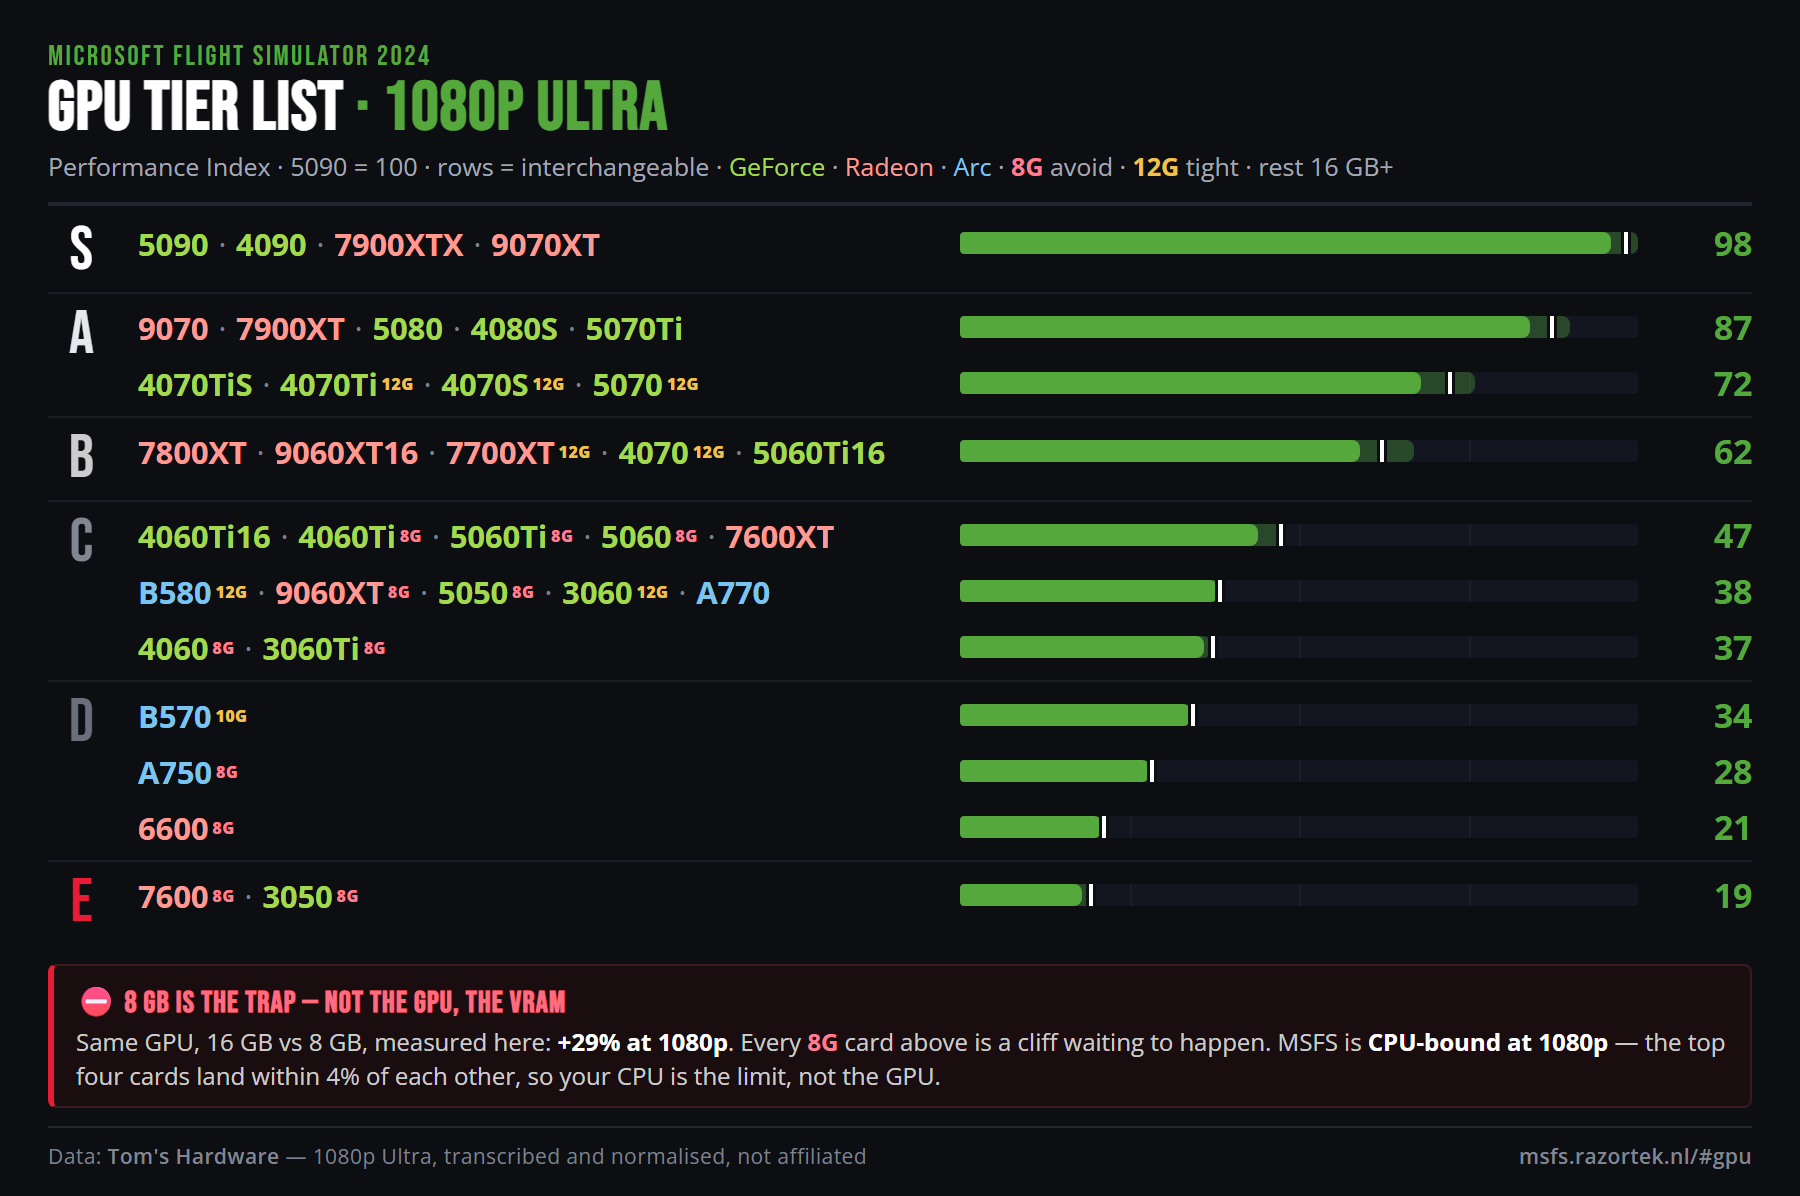
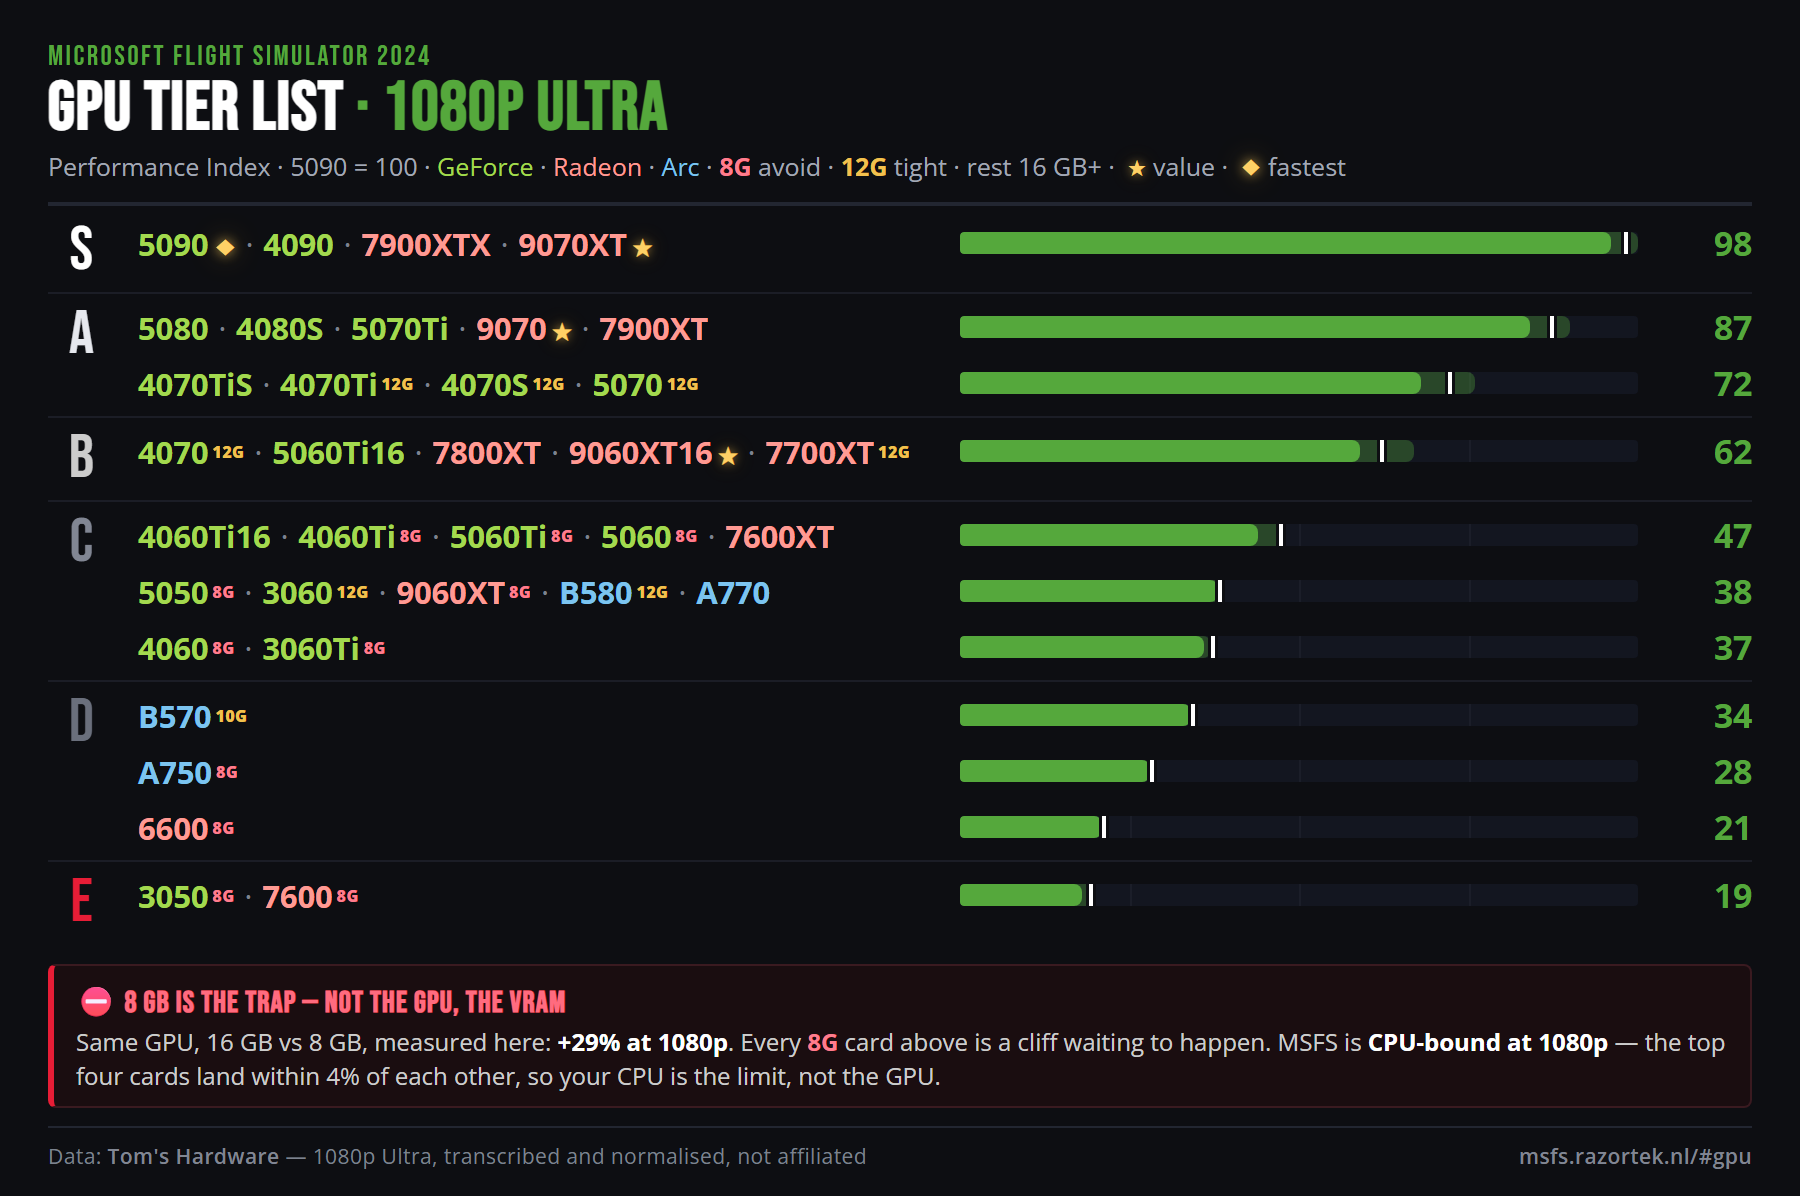
Add gold value/fastest marks to the GPU cards; sort rows by vendor
Gold ★ on the RX 9070 XT, RX 9070 and RX 9060 XT 16GB, gold ◆ on the RTX
5090, both with a warm glow. Glyphs rather than pills because a mark
belongs to one card and a pill mid-list ("RX 9070 [BEST VALUE] · RTX 4080
Super") reads badly; the glow is also what tells them apart from the
amber 12G tag, which sits at a similar hue.

A mark attaches to a card, never a row: clusters are mixed, so marking
the row would claim the 4090 and 7900 XTX are value picks too.

The ★ picks are editorial, not computed -- the dataset has no prices --
and both card variants say so rather than implying it fell out of the
numbers.

Cards within a row are now listed Nvidia > AMD > Intel, then by index.
Row order itself is unchanged and still purely by index.

Also reword the per-resolution caveat from "not comparable to the other
two cards" to "not comparable to other resolutions", which is the actual
claim -- it is about the normalisation, not about these three files.

diff --git a/tierlist_card_gpu.html b/tierlist_card_gpu.html
@@ -82,6 +82,13 @@ h1 em{font-style:normal;color:var(--acc)}
 sup.vr{font-size:8.5px;font-weight:800;letter-spacing:.03em;vertical-align:3px;margin-left:2px}
 sup.v8{color:#ff7d8d}
 sup.v12{color:#f2c14e}
+/* Gold accolades. Deliberately glyphs, not pills: a mark belongs to one card, and a
+   pill mid-list ("RX 9070 [BEST VALUE] · RTX 4080 Super") reads badly. The glow is
+   what separates them from the amber 12G tag, which sits at a similar hue. */
+.mk{font-size:11.5px;margin-left:3px;color:#ffd166;
+  text-shadow:0 0 5px rgba(255,200,80,.55), 0 0 11px rgba(255,190,60,.3)}
+.mk.ult{font-size:12.5px;
+  text-shadow:0 0 6px rgba(255,205,90,.75), 0 0 15px rgba(255,190,60,.45)}
 .note{font-size:12.5px;color:var(--note);letter-spacing:-.002em;margin-left:7px}
 .bar{grid-column:1;position:relative;height:13px;background:var(--track);border-radius:2px;
   overflow:hidden}
@@ -160,10 +167,11 @@ html.compact .foot{margin-top:9px;padding-top:7px;font-size:10.5px}
   <h1>GPU Tier List <em>· <span id="hRes"></span> Ultra</em></h1>
   <!-- .sub must stay ONE line: ~852px of content width at 12.5px fits ~128 chars.
        Keep it under that or it silently steals a whole line of card height. -->
-  <div class="sub">Performance Index · 5090 = 100 · rows = interchangeable ·
-    <span class="b-nv">GeForce</span> · <span class="b-amd">Radeon</span> ·
-    <span class="b-intel">Arc</span> · <b style="color:#ff7d8d">8G</b> avoid ·
-    <b style="color:#f2c14e">12G</b> tight · rest 16 GB+</div>
+  <div class="sub">Performance Index · 5090 = 100 · <span class="b-nv">GeForce</span> ·
+    <span class="b-amd">Radeon</span> · <span class="b-intel">Arc</span> ·
+    <b style="color:#ff7d8d">8G</b> avoid · <b style="color:#f2c14e">12G</b> tight ·
+    rest 16 GB+ · <span class="mk">★</span> value ·
+    <span class="mk ult">◆</span> fastest</div>
   <div class="lede">
     Tom's Hardware GPU test passes at <b><span class="hRes2"></span> Ultra</b>, rescaled
     onto one 0–100 scale with the 5090 at 100. Cards within a few points of each other are
@@ -172,8 +180,10 @@ html.compact .foot{margin-top:9px;padding-top:7px;font-size:10.5px}
     Names are tinted by brand — <span class="b-nv">GeForce</span>,
     <span class="b-amd">Radeon</span>, <span class="b-intel">Arc</span> — and tagged by
     memory: <sup class="vr v8">8G</sup> and <sup class="vr v12">12G</sup>, untagged means
-    16 GB or more. The index is normalised per resolution, so these numbers are
-    <b>not comparable to the other two cards</b>.
+    16 GB or more. <span class="mk ult">◆</span> is the outright fastest card and
+    <span class="mk">★</span> marks the <b>best value for money</b> — an editorial pick,
+    since the dataset holds no prices. The index is normalised per resolution, so these
+    numbers are <b>not comparable to other resolutions</b>.
   </div>
   <div class="hrule"></div>
 
@@ -227,31 +237,31 @@ html.compact .foot{margin-top:9px;padding-top:7px;font-size:10.5px}
 /* Per-resolution index, clusters generated from public/gpu_data.json (gap 5, cap 5).
    mean = cluster average (sets the tier); lo/hi = slowest and fastest card in it.
    Third card arg is VRAM in GB, present only when <= 12 — that is what earns a tag. */
-const nv=(n,s,g)=>({n,s,v:"nv",g}), amd=(n,s,g)=>({n,s,v:"amd",g}),
-      intel=(n,s,g)=>({n,s,v:"intel",g});
+const nv=(n,s,g,m)=>({n,s,v:"nv",g,m}), amd=(n,s,g,m)=>({n,s,v:"amd",g,m}),
+      intel=(n,s,g,m)=>({n,s,v:"intel",g,m});
 // GENERATED — do not hand-edit between the markers.
 // Regenerate with: python make_tierlist_clusters.py
 const GPU_DATA = {
 // <<< CLUSTERS
 "1080p": [
   { t:"S", rows:[
-    { cards:[nv("RTX 5090","5090"), nv("RTX 4090","4090"), amd("RX 7900 XTX","7900XTX"), amd("RX 9070 XT","9070XT")],
+    { cards:[nv("RTX 5090","5090",0,"ult"), nv("RTX 4090","4090"), amd("RX 7900 XTX","7900XTX"), amd("RX 9070 XT","9070XT",0,"value")],
       lo:96, hi:100, mean:98 },
   ]},
   { t:"A", rows:[
-    { cards:[amd("RX 9070","9070"), amd("RX 7900 XT","7900XT"), nv("RTX 5080","5080"), nv("RTX 4080 Super","4080S"), nv("RTX 5070 Ti","5070Ti")],
+    { cards:[nv("RTX 5080","5080"), nv("RTX 4080 Super","4080S"), nv("RTX 5070 Ti","5070Ti"), amd("RX 9070","9070",0,"value"), amd("RX 7900 XT","7900XT")],
       lo:84, hi:90, mean:87 },
     { cards:[nv("RTX 4070 Ti Super","4070TiS"), nv("RTX 4070 Ti","4070Ti",12), nv("RTX 4070 Super","4070S",12), nv("RTX 5070","5070",12)],
       lo:68, hi:76, mean:72 },
   ]},
   { t:"B", rows:[
-    { cards:[amd("RX 7800 XT","7800XT"), amd("RX 9060 XT 16GB","9060XT16"), amd("RX 7700 XT","7700XT",12), nv("RTX 4070","4070",12), nv("RTX 5060 Ti 16GB","5060Ti16")],
+    { cards:[nv("RTX 4070","4070",12), nv("RTX 5060 Ti 16GB","5060Ti16"), amd("RX 7800 XT","7800XT"), amd("RX 9060 XT 16GB","9060XT16",0,"value"), amd("RX 7700 XT","7700XT",12)],
       lo:59, hi:67, mean:62 },
   ]},
   { t:"C", rows:[
     { cards:[nv("RTX 4060 Ti 16GB","4060Ti16"), nv("RTX 4060 Ti","4060Ti",8), nv("RTX 5060 Ti","5060Ti",8), nv("RTX 5060","5060",8), amd("RX 7600 XT","7600XT")],
       lo:44, hi:48, mean:47 },
-    { cards:[intel("Arc B580","B580",12), amd("RX 9060 XT","9060XT",8), nv("RTX 5050","5050",8), nv("RTX 3060","3060",12), intel("Arc A770 16GB","A770")],
+    { cards:[nv("RTX 5050","5050",8), nv("RTX 3060","3060",12), amd("RX 9060 XT","9060XT",8), intel("Arc B580","B580",12), intel("Arc A770 16GB","A770")],
       lo:38, hi:39, mean:38 },
     { cards:[nv("RTX 4060","4060",8), nv("RTX 3060 Ti","3060Ti",8)],
       lo:36, hi:37, mean:37 },
@@ -265,27 +275,27 @@ const GPU_DATA = {
       lo:21, hi:21, mean:21 },
   ]},
   { t:"E", rows:[
-    { cards:[amd("RX 7600","7600",8), nv("RTX 3050","3050",8)],
+    { cards:[nv("RTX 3050","3050",8), amd("RX 7600","7600",8)],
       lo:18, hi:20, mean:19 },
   ]},
 ],
 "1440p": [
   { t:"S", rows:[
-    { cards:[nv("RTX 5090","5090")],
+    { cards:[nv("RTX 5090","5090",0,"ult")],
       lo:100, hi:100, mean:100 },
   ]},
   { t:"A", rows:[
     { cards:[nv("RTX 4090","4090")],
       lo:86, hi:86, mean:86 },
-    { cards:[amd("RX 9070 XT","9070XT"), amd("RX 7900 XTX","7900XTX")],
+    { cards:[amd("RX 9070 XT","9070XT",0,"value"), amd("RX 7900 XTX","7900XTX")],
       lo:81, hi:81, mean:81 },
-    { cards:[nv("RTX 5080","5080"), amd("RX 7900 XT","7900XT"), amd("RX 9070","9070"), nv("RTX 4080 Super","4080S"), nv("RTX 5070 Ti","5070Ti")],
+    { cards:[nv("RTX 5080","5080"), nv("RTX 4080 Super","4080S"), nv("RTX 5070 Ti","5070Ti"), amd("RX 7900 XT","7900XT"), amd("RX 9070","9070",0,"value")],
       lo:70, hi:76, mean:72 },
   ]},
   { t:"B", rows:[
     { cards:[nv("RTX 4070 Ti Super","4070TiS"), nv("RTX 4070 Ti","4070Ti",12), nv("RTX 4070 Super","4070S",12), nv("RTX 5070","5070",12), amd("RX 7800 XT","7800XT")],
       lo:54, hi:63, mean:57 },
-    { cards:[amd("RX 9060 XT 16GB","9060XT16"), amd("RX 7700 XT","7700XT",12), nv("RTX 5060 Ti 16GB","5060Ti16")],
+    { cards:[nv("RTX 5060 Ti 16GB","5060Ti16"), amd("RX 9060 XT 16GB","9060XT16",0,"value"), amd("RX 7700 XT","7700XT",12)],
       lo:49, hi:54, mean:51 },
   ]},
   { t:"C", rows:[
@@ -295,13 +305,13 @@ const GPU_DATA = {
       lo:37, hi:41, mean:39 },
   ]},
   { t:"D", rows:[
-    { cards:[intel("Arc B580","B580",12), nv("RTX 3060","3060",12), intel("Arc A770 16GB","A770"), nv("RTX 4060 Ti","4060Ti",8), amd("RX 9060 XT","9060XT",8)],
+    { cards:[nv("RTX 3060","3060",12), nv("RTX 4060 Ti","4060Ti",8), amd("RX 9060 XT","9060XT",8), intel("Arc B580","B580",12), intel("Arc A770 16GB","A770")],
       lo:25, hi:33, mean:30 },
     { cards:[nv("RTX 5050","5050",8), intel("Arc A750","A750",8)],
       lo:21, hi:22, mean:22 },
   ]},
   { t:"E", rows:[
-    { cards:[nv("RTX 4060","4060",8), intel("Arc B570","B570",10), amd("RX 7600","7600",8), nv("RTX 3050","3050",8), amd("RX 6600","6600",8)],
+    { cards:[nv("RTX 4060","4060",8), nv("RTX 3050","3050",8), amd("RX 7600","7600",8), amd("RX 6600","6600",8), intel("Arc B570","B570",10)],
       lo:13, hi:17, mean:15 },
     { cards:[nv("RTX 3060 Ti","3060Ti",8)],
       lo:12, hi:12, mean:12 },
@@ -309,7 +319,7 @@ const GPU_DATA = {
 ],
 "4K": [
   { t:"S", rows:[
-    { cards:[nv("RTX 5090","5090")],
+    { cards:[nv("RTX 5090","5090",0,"ult")],
       lo:100, hi:100, mean:100 },
   ]},
   { t:"A", rows:[
@@ -317,27 +327,27 @@ const GPU_DATA = {
       lo:78, hi:78, mean:78 },
   ]},
   { t:"B", rows:[
-    { cards:[amd("RX 7900 XTX","7900XTX"), amd("RX 9070 XT","9070XT"), nv("RTX 5080","5080"), nv("RTX 4080 Super","4080S"), amd("RX 7900 XT","7900XT")],
+    { cards:[nv("RTX 5080","5080"), nv("RTX 4080 Super","4080S"), amd("RX 7900 XTX","7900XTX"), amd("RX 9070 XT","9070XT",0,"value"), amd("RX 7900 XT","7900XT")],
       lo:58, hi:68, mean:63 },
-    { cards:[nv("RTX 5070 Ti","5070Ti"), amd("RX 9070","9070"), nv("RTX 4070 Ti Super","4070TiS"), nv("RTX 4070 Ti","4070Ti",12)],
+    { cards:[nv("RTX 5070 Ti","5070Ti"), nv("RTX 4070 Ti Super","4070TiS"), nv("RTX 4070 Ti","4070Ti",12), amd("RX 9070","9070",0,"value")],
       lo:49, hi:57, mean:53 },
   ]},
   { t:"C", rows:[
-    { cards:[nv("RTX 4070 Super","4070S",12), amd("RX 7800 XT","7800XT"), nv("RTX 5070","5070",12), amd("RX 9060 XT 16GB","9060XT16"), nv("RTX 5060 Ti 16GB","5060Ti16")],
+    { cards:[nv("RTX 4070 Super","4070S",12), nv("RTX 5070","5070",12), nv("RTX 5060 Ti 16GB","5060Ti16"), amd("RX 7800 XT","7800XT"), amd("RX 9060 XT 16GB","9060XT16",0,"value")],
       lo:39, hi:45, mean:42 },
-    { cards:[amd("RX 7700 XT","7700XT",12), nv("RTX 4070","4070",12)],
+    { cards:[nv("RTX 4070","4070",12), amd("RX 7700 XT","7700XT",12)],
       lo:36, hi:38, mean:37 },
   ]},
   { t:"D", rows:[
     { cards:[nv("RTX 4060 Ti 16GB","4060Ti16")],
       lo:33, hi:33, mean:33 },
-    { cards:[amd("RX 7600 XT","7600XT"), amd("RX 9060 XT","9060XT",8), intel("Arc B580","B580",12), nv("RTX 3060","3060",12), intel("Arc A770 16GB","A770")],
+    { cards:[nv("RTX 3060","3060",12), amd("RX 7600 XT","7600XT"), amd("RX 9060 XT","9060XT",8), intel("Arc B580","B580",12), intel("Arc A770 16GB","A770")],
       lo:23, hi:28, mean:25 },
   ]},
   { t:"E", rows:[
-    { cards:[nv("RTX 5060 Ti","5060Ti",8), intel("Arc A750","A750",8), nv("RTX 5060","5060",8), nv("RTX 5050","5050",8), nv("RTX 3060 Ti","3060Ti",8)],
+    { cards:[nv("RTX 5060 Ti","5060Ti",8), nv("RTX 5060","5060",8), nv("RTX 5050","5050",8), nv("RTX 3060 Ti","3060Ti",8), intel("Arc A750","A750",8)],
       lo:14, hi:19, mean:16 },
-    { cards:[amd("RX 7600","7600",8), nv("RTX 4060","4060",8), amd("RX 6600","6600",8), nv("RTX 4060 Ti","4060Ti",8), nv("RTX 3050","3050",8)],
+    { cards:[nv("RTX 4060","4060",8), nv("RTX 4060 Ti","4060Ti",8), nv("RTX 3050","3050",8), amd("RX 7600","7600",8), amd("RX 6600","6600",8)],
       lo:11, hi:14, mean:12 },
     { cards:[intel("Arc B570","B570",10)],
       lo:6, hi:6, mean:6 },
@@ -373,8 +383,11 @@ document.querySelectorAll(".hHint").forEach(e => (e.innerHTML = M.hint));
 const GL = [25,50,75];
 const vramTag = g => !g || g > 12 ? ``
   : `<sup class="vr ${g <= 8 ? "v8" : "v12"}">${g}G</sup>`;
+const MARK = { value:["★","best value for money"], ult:["◆","fastest card, any resolution"] };
+const markTag = m => !m ? ``
+  : `<span class="mk ${m}" title="${MARK[m][1]}">${MARK[m][0]}</span>`;
 const names = cards => cards
-  .map(c => `<span class="b-${c.v}">${COMPACT ? c.s : c.n}${vramTag(c.g)}</span>`)
+  .map(c => `<span class="b-${c.v}">${COMPACT ? c.s : c.n}${vramTag(c.g)}${markTag(c.m)}</span>`)
   .join(`<span class="dot"> · </span>`);
 document.getElementById("tiers").innerHTML = GPU_DATA[RES].map(g => `
   <div class="tier t-${g.t.toLowerCase()}">

diff --git a/make_tierlist_clusters.py b/make_tierlist_clusters.py
@@ -55,6 +55,19 @@ NAMES = {
     'Arc A770 16GB': ('Arc A770 16GB', 'A770'), 'Arc A750': ('Arc A750', 'A750'),
 }
 VMAP = {'Nvidia': 'nv', 'AMD': 'amd', 'Intel': 'intel'}
+VORDER = {'Nvidia': 0, 'AMD': 1, 'Intel': 2}   # listing order within a row
+
+# Gold accolades, rendered as a glyph after the card name. Editorial picks, not
+# computed — there is no price data in the dataset, so 'value' is a judgement call
+# about what the index is worth per pound, and it is labelled as such on the card.
+# A mark attaches to one card, never a whole row: clusters are mixed (the 9070 XT
+# shares a row with the 4090 at 1440p), so marking the row would mis-attribute it.
+MARKS = {
+    'RTX 5090': 'ult',            # fastest at every resolution, by a wide margin
+    'RX 9070 XT': 'value',
+    'RX 9070': 'value',
+    'RX 9060 XT 16GB': 'value',
+}
 
 
 def dedup_newest(rows):
@@ -126,10 +139,18 @@ def js_for(res):
             lines.append('  { t:"%s", rows:[' % t)
             prev_t = t
         cards = []
+        # within a row, order by vendor (Nvidia > AMD > Intel), then by index desc.
+        # Row order itself is still purely by index — only the listing is grouped.
+        cl = sorted(cl, key=lambda c: (VORDER[VENDOR[c[0]]], -c[1]))
         for name, _, _ in cl:
             full, short = NAMES[name]
             g = SPECS.get(name, {}).get('vram')
-            arg = ',%d' % g if g and g <= 12 else ''   # only <=12GB earns a tag
+            g = g if g and g <= 12 else 0              # only <=12GB earns a tag
+            mark = MARKS.get(name)
+            if mark:                                   # 0 keeps the mark in slot 4
+                arg = ',%d,"%s"' % (g, mark)
+            else:
+                arg = ',%d' % g if g else ''
             cards.append('%s("%s","%s"%s)' % (VMAP[VENDOR[name]], full, short, arg))
         vals = [v for _, v, _ in cl]
         lines.append('    { cards:[%s],' % ', '.join(cards))
